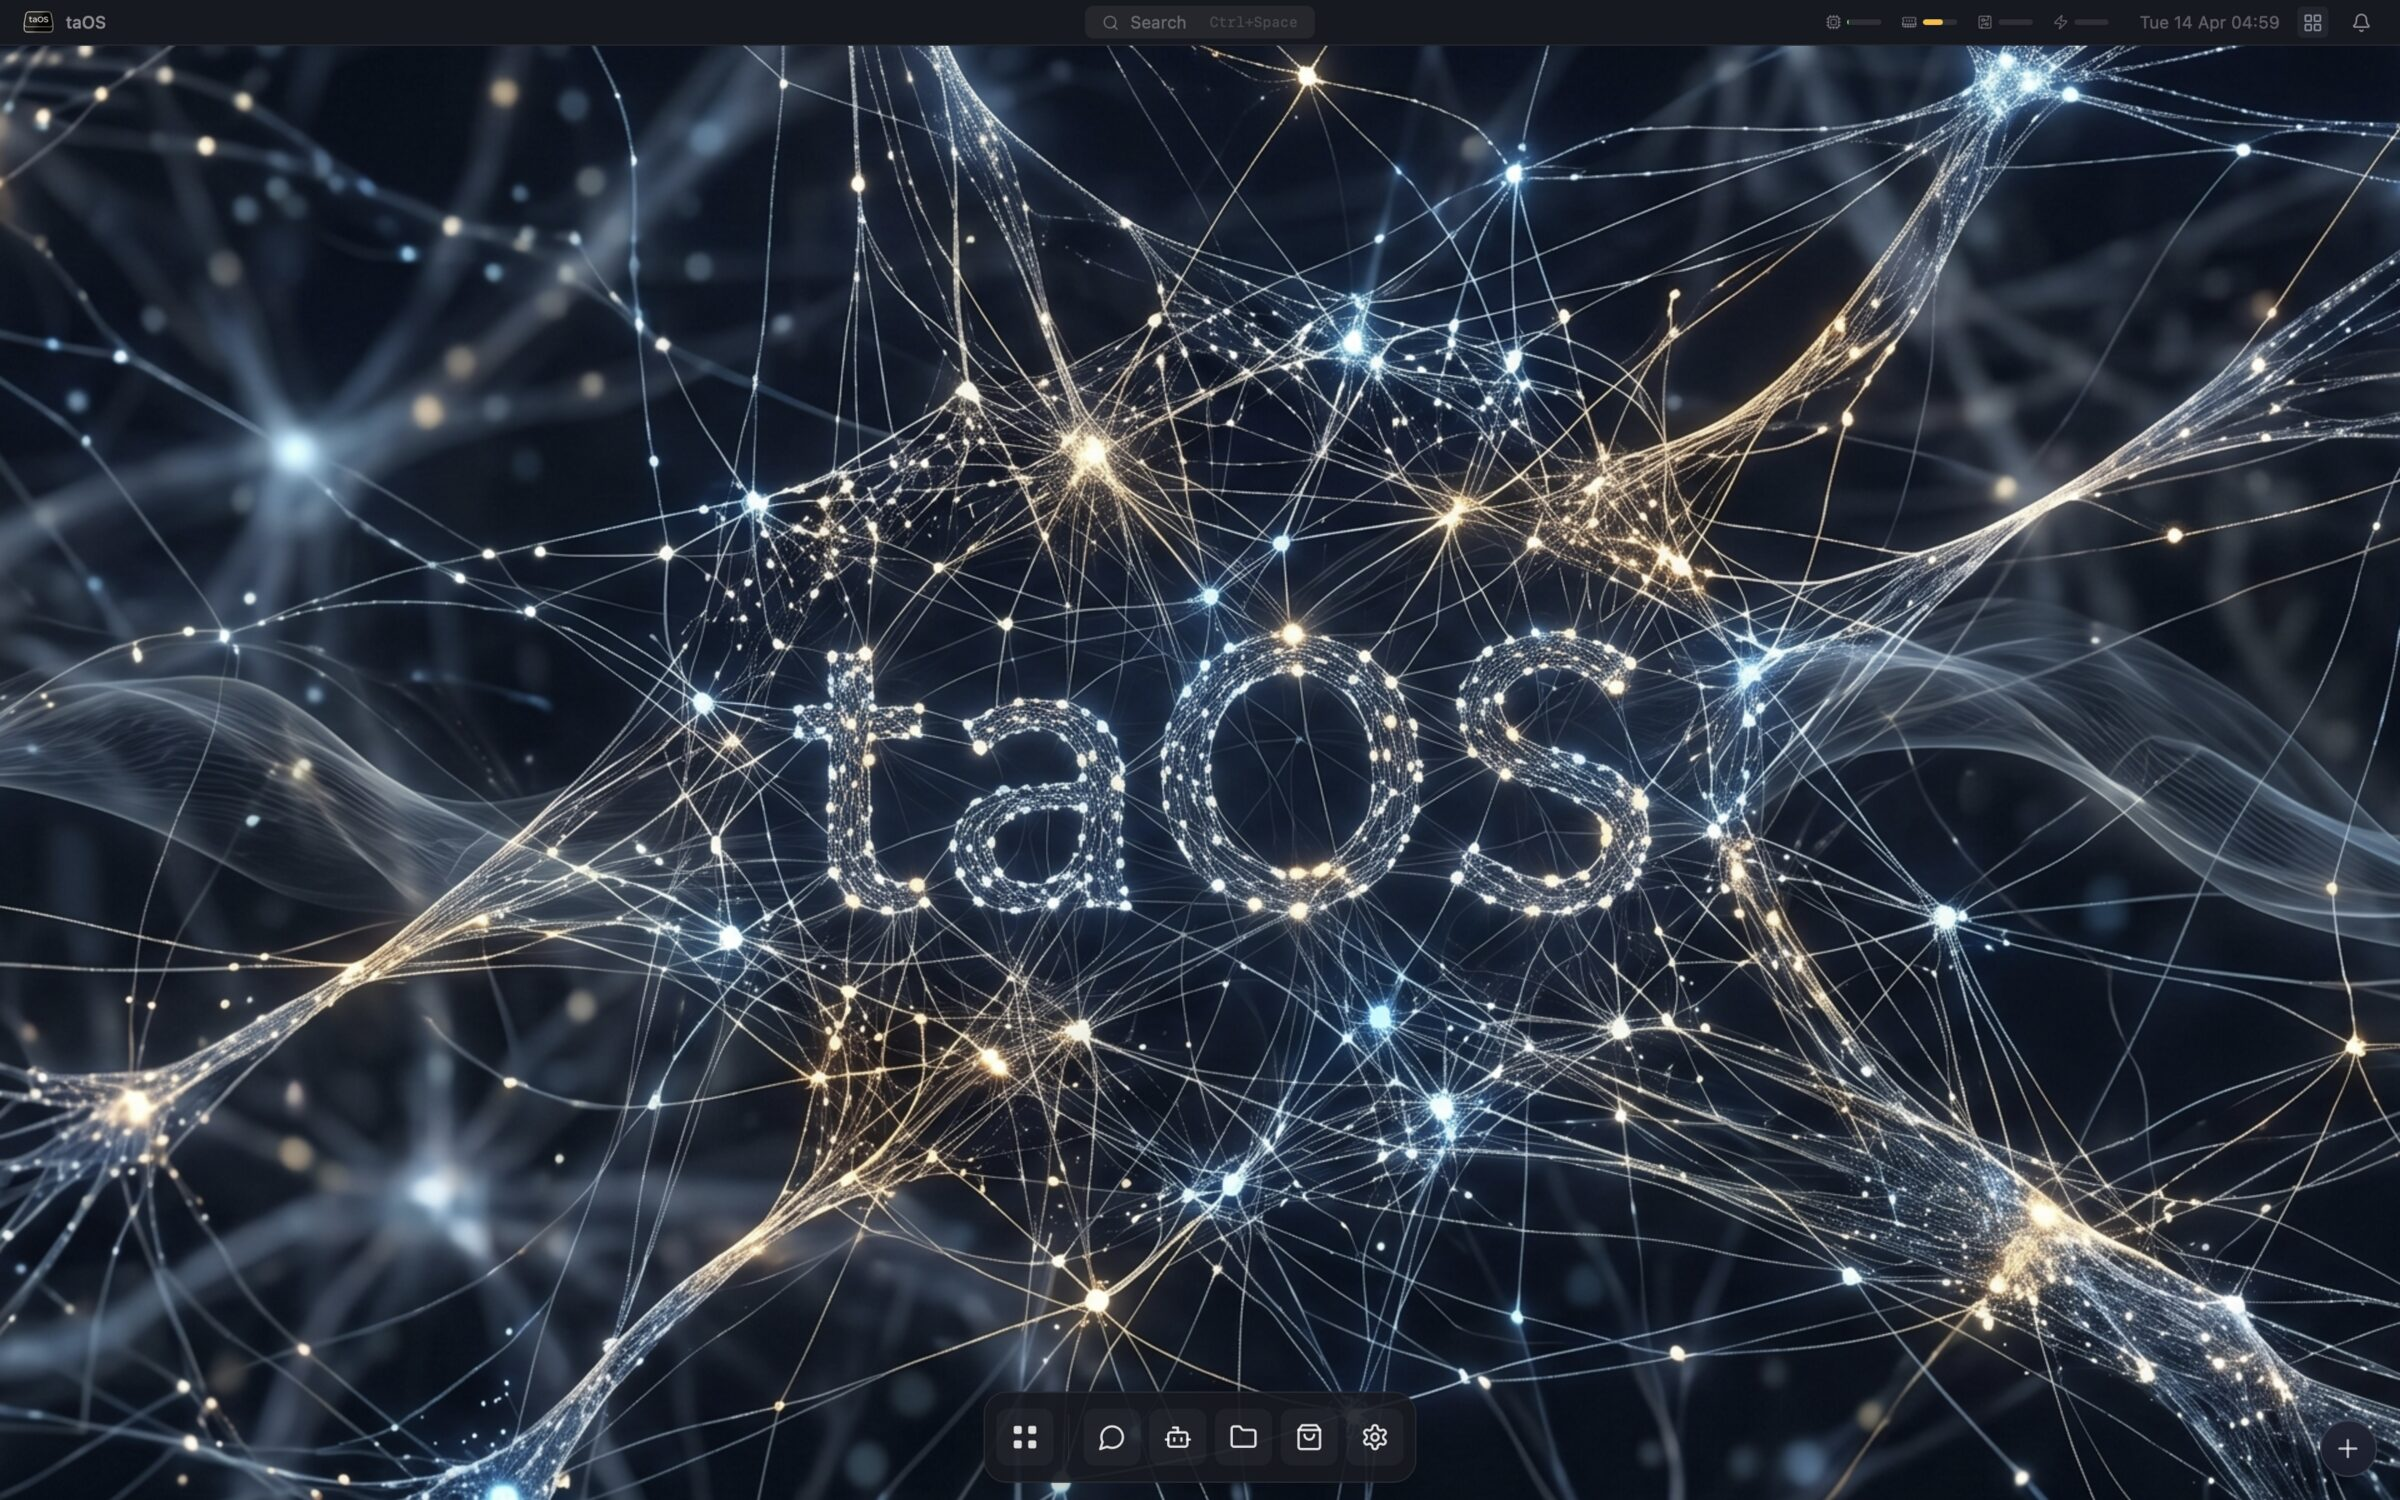
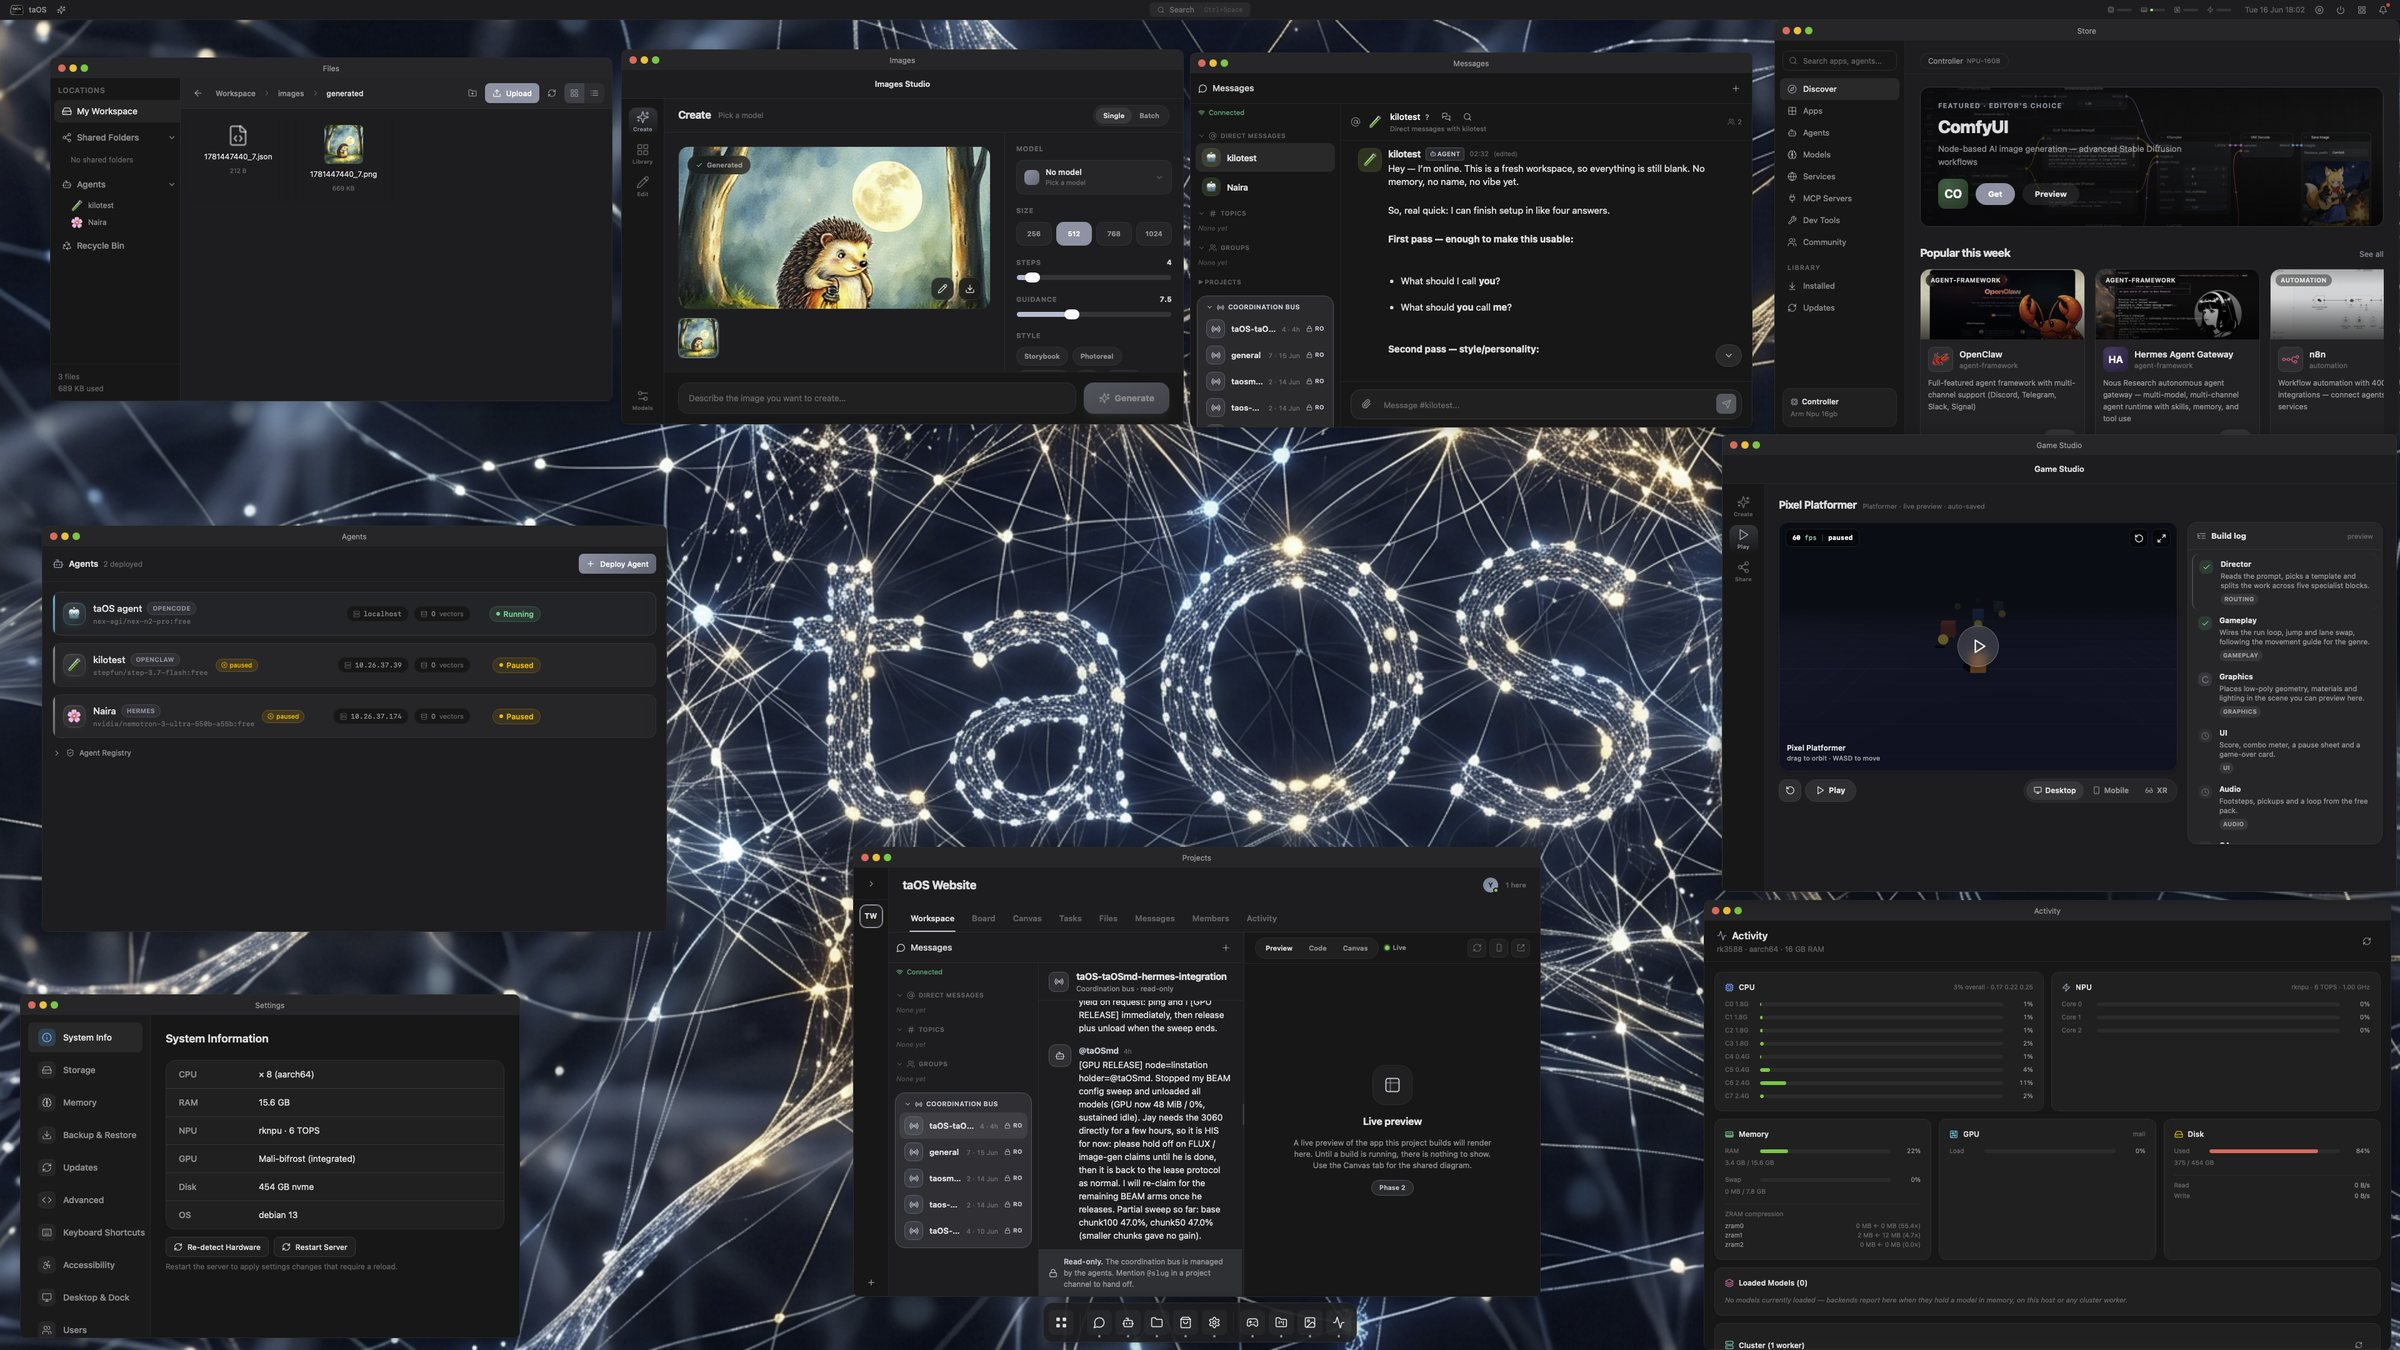
Merge pull request #961 from jaylfc/dev
docs: refresh README screenshots (beta.3 UI)

Pull request: docs: refresh README screenshots (beta.3 UI)
Docs/images-only promotion so the GitHub-visible README (master) shows the current beta.3 UI: new multi-window desktop hero, redesigned Store with real covers, Apple App Store-style mobile Store, refreshed home/search/activity/agents shots, all optimized to JPG (docs/images ~12MB -> ~2.8MB). Also carries STATUS LATEST-14. No code or version change.

<!-- This is an auto-generated comment: release notes by coderabbit.ai -->

## Summary by CodeRabbit

* **Documentation**
  * Updated README with refreshed screenshots across search, store, agents, and activity sections
  * Updated status documentation with latest release information and improvements

<!-- end of auto-generated comment: release notes by coderabbit.ai -->

diff --git a/README.md b/README.md
@@ -35,15 +35,15 @@ A full web desktop environment with 36 bundled apps, 108 catalog apps, 47 MCP pl
 <p align="center">
   <img src="docs/images/mobile-home.jpg" alt="taOS mobile home" width="30%">
   &nbsp;
-  <img src="docs/images/mobile-search.png" alt="Global search on mobile" width="30%">
+  <img src="docs/images/mobile-search.jpg" alt="Global search on mobile" width="30%">
   &nbsp;
-  <img src="docs/images/mobile-store.png" alt="App store on mobile" width="30%">
+  <img src="docs/images/mobile-store.jpg" alt="App store on mobile" width="30%">
 </p>
 
 <p align="center"><sub>Same platform, same session -- desktop, tablet, and phone.</sub></p>
 
 <p align="center">
-  <img src="docs/images/agents-working.png" alt="Six agents on different frameworks chatting in a shared taOS channel" width="100%">
+  <img src="docs/images/agents-working.jpg" alt="Six agents on different frameworks chatting in a shared taOS channel" width="100%">
 </p>
 
 <p align="center"><sub>Six agents on six different frameworks (OpenClaw, Hermes, SmolAgents, Langroid, PocketFlow, OpenAI Agents SDK) talking in a single shared channel.</sub></p>
@@ -102,7 +102,7 @@ taOS ships with a full browser-based desktop environment. Open it at `http://you
 The Activity app includes a Cluster overview panel showing live worker status and resource stats alongside the process monitor. The Model Browser surfaces cloud models (from configured providers) alongside local catalog models, with a provider badge per entry. The deploy wizard accepts cloud models as inference targets.
 
 <p align="center">
-  <img src="docs/images/desktop-store.png" alt="App store -- 108 catalog apps, 16 agent frameworks, hardware-filtered" width="100%">
+  <img src="docs/images/desktop-store.jpg" alt="App store -- 108 catalog apps, 16 agent frameworks, hardware-filtered" width="100%">
 </p>
 
 <p align="center"><sub>The Store -- agent frameworks, models, plugins, services. One-click install, hardware-filtered.</sub></p>
@@ -116,11 +116,11 @@ Full browser-based desktop OS with window manager (float + snap), dock, launchpa
 Auto-detects touch devices and swaps the desktop for a widget-first home screen with customisable multi-page layout (swipe or tap dots to navigate), a persistent dock with app launcher and app switcher, and desktop-style app windows with close/minimise title bars. The top bar features iOS 26-style frosted glass buttons for search and notifications, with a "taOS" home button. Installable as a fullscreen PWA on iOS and Android. A standalone Chat PWA is available at `/chat-pwa` and installs like a private Discord.
 
 <p align="center">
-  <img src="docs/images/mobile-activity-system.png" alt="Mobile activity view -- per-core CPU, NPU, RAM" width="30%">
+  <img src="docs/images/mobile-activity-system.jpg" alt="Mobile activity view -- per-core CPU, NPU, RAM" width="30%">
   &nbsp;
-  <img src="docs/images/mobile-activity-cluster.png" alt="Mobile cluster view -- worker hardware, thermals, network" width="30%">
+  <img src="docs/images/mobile-activity-cluster.jpg" alt="Mobile cluster view -- worker hardware, thermals, network" width="30%">
   &nbsp;
-  <img src="docs/images/mobile-activity-scheduler.png" alt="Mobile scheduler view -- worker hardware and capabilities" width="30%">
+  <img src="docs/images/mobile-activity-scheduler.jpg" alt="Mobile scheduler view -- worker hardware and capabilities" width="30%">
 </p>
 
 <p align="center"><sub>Full system observability on your phone -- per-core stats, cluster health, and the hardware-aware scheduler.</sub></p>
@@ -197,7 +197,7 @@ One-click install for agent frameworks, AI models, and services. Hardware-aware,
 > **Running taOS *inside* an LXC (e.g. Proxmox)?** Deploying an agent creates a *nested* container, which an **unprivileged** LXC cannot do -- the kernel can't remap the nested container's filesystem, so the deploy fails with an `idmapped storage / change ownership` error. Run the taOS LXC as **privileged with nesting enabled**. On Proxmox: untick *Unprivileged container* and set Options → Features → `nesting=1` (plus `keyctl=1`, `fuse=1`), then redeploy. Bare-metal and VM installs are unaffected. (taOS detects this and surfaces the fix in the deploy error.)
 
 <p align="center">
-  <img src="docs/images/mobile-agents-empty.png" alt="Agents app empty state on mobile -- one tap to deploy" width="30%">
+  <img src="docs/images/mobile-agents-empty.jpg" alt="Agents app empty state on mobile -- one tap to deploy" width="30%">
 </p>
 
 <p align="center"><sub>The Agents app on mobile -- one tap from empty to your first deployed agent.</sub></p>
@@ -307,11 +307,11 @@ Search across agents, apps, messages, and files from a single endpoint. Finds an
 ### Monitoring & Management
 
 <p align="center">
-  <img src="docs/images/desktop-activity-system.png" alt="Activity -- CPU, NPU, memory, disk, cluster" width="100%">
+  <img src="docs/images/desktop-activity-system.jpg" alt="Activity -- CPU, NPU, memory, disk, cluster" width="100%">
 </p>
 
 <p align="center">
-  <img src="docs/images/desktop-activity-scheduler.png" alt="Activity scheduler -- per-worker hardware and capabilities" width="100%">
+  <img src="docs/images/desktop-activity-scheduler.jpg" alt="Activity scheduler -- per-worker hardware and capabilities" width="100%">
 </p>
 
 <p align="center"><sub>Every core, every worker, every capability -- visible at a glance.</sub></p>

diff --git a/docs/STATUS.md b/docs/STATUS.md
@@ -1,5 +1,7 @@
 SINGLE SOURCE OF TRUTH for cross-agent handoff.
-Last updated: 2026-06-16 ~17:30 BST, @taOS (ACTIVE).
+Last updated: 2026-06-16 ~18:10 BST, @taOS (ACTIVE).
+
+▶▶ LATEST-[phone redacted] ~18:10 BST, master = dev content = fa4bd377 (dev tip 1587a933; master is dev + the #960 promote merge), RELEASE v1.0.0-beta.3 SHIPPED (tagged v1.0.0-beta.3 + GitHub Release on fa4bd377). Jay said "merge all to dev then master with a new version number." DONE: (1) folded ALL 5 gitar #959 findings on the #959 branch (31aba65f) -- installed apps show an honest role=status "Installed" indicator instead of a dead "Open" span (store services are managed, not launched from the storefront); failed installs flip the pill to "Retry" instead of swallowing the error; AppIcon resets its resolution stage when the candidate URL set changes; StoreCover clears its failed flag when coverImage changes; + a new MobileStore.test.tsx (47 Store tests pass). (2) merged #959 -> dev (6f6fda58). (3) bumped 1.0.0-beta.2 -> 1.0.0-beta.3 across the 3 version files + CHANGELOG (1587a933). (4) promoted dev -> master via #960 (admin --merge, NOT --delete-branch; dev preserved). (5) tagged + GitHub Release (taos.my changelog.html pulls Releases). beta.3 = mobile Store Apple-App-Store redesign (#959) + real Store covers/icons (openclaw/hermes/ollama/comfyui/n8n/self-hosted apps + shared SD banner w/ grayscale AUTOMATIC1111 cut) + shared AppIcon monogram fallback. PI STATE: still on the feat/mobile-store-appstore tip b4b2af7d (the promo-preview deploy, which PRE-DATES the gitar fixes 31aba65f); master now carries everything. RETURN the Pi to dev (= master content) when convenient -- left as-is here per [[feedback_taos_update_manual]] (don't SSH-deploy after merges, let Jay pull). Open vs master: dependabot #954 (uv group), #476 App Runtime draft. #85 (gitar #959 findings) DONE. NEXT: Design Studio (#76) + Music Studio (#78) mockups (Jay's stated next priority after the Store was promo-ready).
 
 ▶▶ LATEST-[phone redacted] ~17:30 BST, dev=master=394c1c36 (canonical docs on origin/dev=994e04ed), Pi on feat/mobile-store-appstore (b4b2af7d) for Jay's mobile-Store promo preview: the LATEST-12 ICONS + COVERS follow-up is DONE on the #959 branch (NOT merged to dev, gated on Jay's promo shots). Real cover banners now wired via COVER_BY_ID (resolved by app id for backend-sourced catalog rows): openclaw, hermes, ollama, plus a shared Stable Diffusion banner across both WebUI cards -- the normal stable-diffusion-webui in color, the AUTOMATIC1111 build (sd-webui) a grayscale cut of the same banner so the two read as distinct. These sit on top of the earlier batch (comfyui/n8n/home-assistant/immich/jellyfin/vaultwarden/sonarr/radarr/uptime-kuma/nextcloud/code-server). All assets verified serving 200 image/webp from the Pi. tsc clean. NEXT unchanged: Jay grabs promo shots -> on his OK merge #959 to dev + promote to master (beta.3) + RETURN Pi to dev. Still open: fold #959 gitar findings (#85) before merge.
 